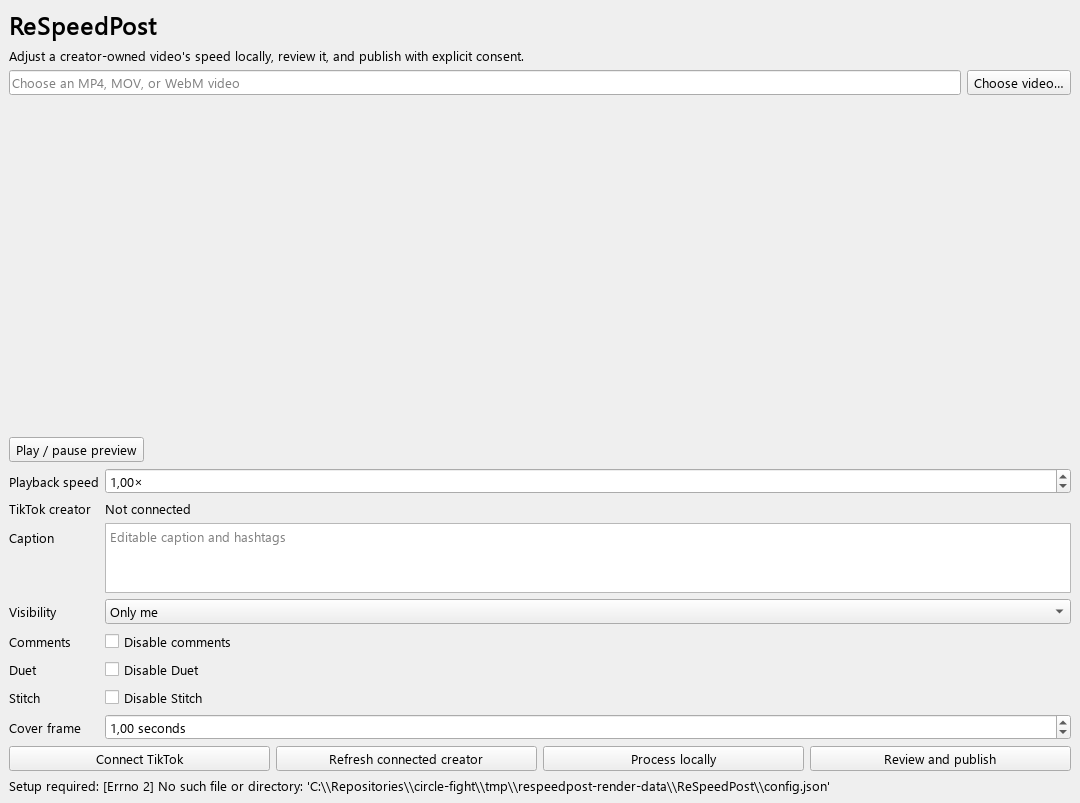
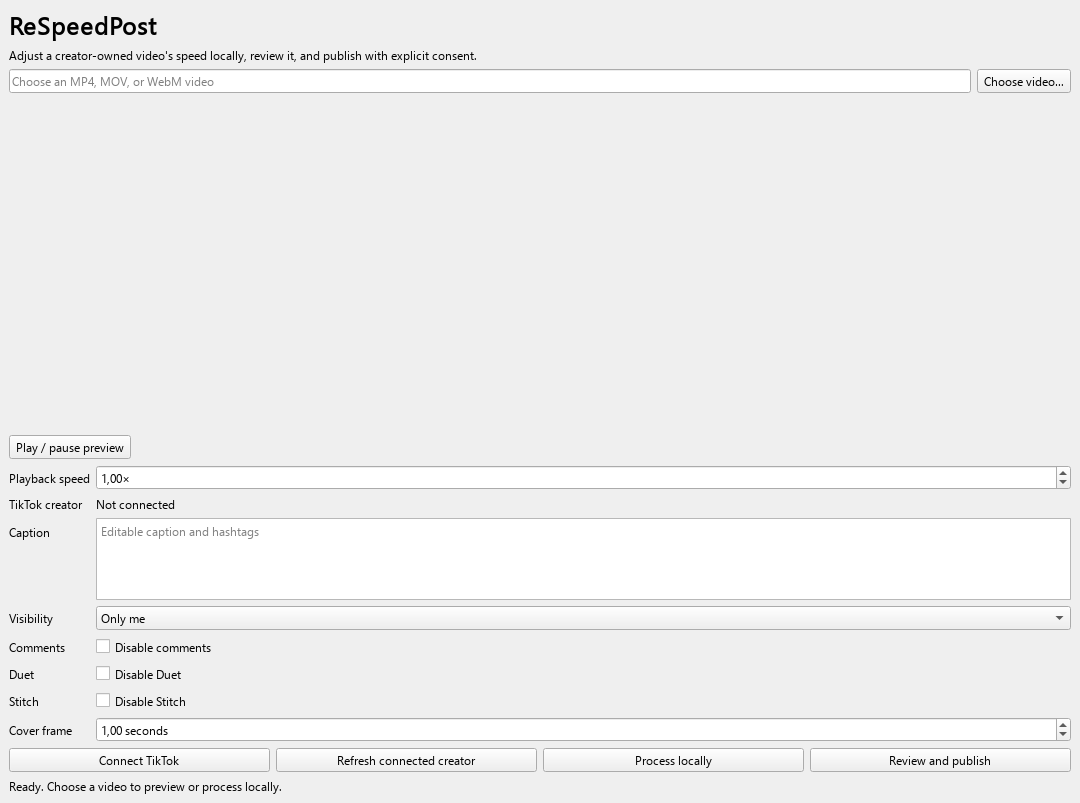
Refine public product messaging and screenshot

diff --git a/index.html b/index.html
@@ -32,7 +32,7 @@
         <div class="section-intro"><p class="eyebrow">Product capabilities</p><h2>A focused workflow for creator-owned media</h2><p>Video processing stays on the user's computer. ReSpeedPost sends a file to TikTok only after the connected creator, metadata, and platform-supported choices are visible.</p></div>
         <div class="grid">
           <article class="card"><span class="number">1</span><h3>Local speed adjustment</h3><p>Choose a speed from 0.25× to 4.00×. FFmpeg creates an H.264/AAC MP4 locally while preserving audio pitch timing.</p></article>
-          <article class="card"><span class="number">2</span><h3>True 1.00× passthrough</h3><p>At exactly 1.00×, the source file is used unchanged. ReSpeedPost does not re-encode, rename, or modify its bytes.</p></article>
+          <article class="card"><span class="number">2</span><h3>Flexible speed control</h3><p>Fine-tune playback speed in 0.05× increments to suit the timing and format of each video.</p></article>
           <article class="card"><span class="number">3</span><h3>Preview before transfer</h3><p>Review the selected local video before publishing. The app never begins a TikTok upload merely because a file was selected.</p></article>
           <article class="card"><span class="number">4</span><h3>Current creator choices</h3><p>ReSpeedPost queries TikTok for the connected creator's nickname, privacy levels, interaction restrictions, and maximum duration.</p></article>
           <article class="card"><span class="number">5</span><h3>Editable post details</h3><p>Edit the caption and hashtags, visibility, comments, Duet, Stitch, and cover-frame timestamp before confirmation.</p></article>
@@ -46,7 +46,7 @@
         <div class="section-intro"><p class="eyebrow">How it works</p><h2>Five visible steps, no surprise upload</h2></div>
         <div class="steps">
           <article class="step"><div><h3>Select and preview</h3><p>Choose an MP4, MOV, or WebM file that you own or are authorized to publish, then preview it in the desktop app.</p></div></article>
-          <article class="step"><div><h3>Choose the speed</h3><p>Use 1.00× for an unchanged upload, or create a local re-speeded copy between 0.25× and 4.00×.</p></div></article>
+          <article class="step"><div><h3>Choose the speed</h3><p>Set the playback speed for the selected video and review the choice before processing.</p></div></article>
           <article class="step"><div><h3>Connect TikTok</h3><p>Authorize a TikTok account through Login Kit. ReSpeedPost displays the creator identity returned by TikTok.</p></div></article>
           <article class="step"><div><h3>Review platform settings</h3><p>Refresh the creator's available options, edit the caption and interaction settings, and choose an allowed visibility.</p></div></article>
           <article class="step"><div><h3>Confirm and publish</h3><p>A final summary identifies the creator, file, speed, visibility, and caption. Only an affirmative confirmation starts processing and transfer.</p></div></article>
@@ -59,4 +59,3 @@
   <footer class="site-footer"><div><strong>ReSpeedPost</strong><br>Desktop video preparation and TikTok publishing.</div><nav><a href="docs.html">Documentation</a><a href="support.html">Support</a><a href="privacy.html">Privacy Policy</a><a href="terms.html">Terms of Service</a></nav></footer>
 </body>
 </html>
-

diff --git a/privacy.html b/privacy.html
@@ -3,7 +3,7 @@
 <main class="container"><header class="page-hero"><p class="eyebrow">Effective August 28, 2026</p><h1>Privacy Policy</h1><p class="lede">This policy explains what ReSpeedPost accesses, where processing occurs, what is transmitted, and how users can revoke access or delete local data.</p></header><article class="prose">
 <h2>Product scope</h2><p>ReSpeedPost is a desktop and command-line application that lets users select creator-owned local videos, optionally adjust playback speed, preview and edit publishing choices, and explicitly authorize publication to their TikTok account.</p>
 <h2>Information accessed from TikTok</h2><p>After authorization, ReSpeedPost uses TikTok's APIs to retrieve the connected creator's username, nickname, currently available privacy levels, comment, Duet and Stitch restrictions, and maximum supported video duration. The application uses the <code>user.info.basic</code> and <code>video.publish</code> scopes. It does not request messages, contacts, passwords, advertising profiles, or unrelated account data.</p>
-<h2>Local video processing</h2><p>Selected videos and re-speeded outputs are processed on the user's computer. At 1.00× the source file is used unchanged. At other speeds, FFmpeg creates a new local output. ReSpeedPost does not send video files to its OAuth service.</p>
+<h2>Local video processing</h2><p>Selected videos and re-speeded outputs are processed on the user's computer. ReSpeedPost does not send video files to its OAuth service.</p>
 <h2>Publishing transfer</h2><p>After the user reviews the creator identity, video, caption, visibility, interaction settings, cover frame, and final confirmation, the selected local file is uploaded directly from the user's device to TikTok's Content Posting API. TikTok processes that transfer under its own privacy policy and terms.</p>
 <h2>OAuth service</h2><p>ReSpeedPost uses a small hosted service solely to keep the TikTok client secret out of the distributed desktop application. The service exchanges a short-lived authorization code for TikTok tokens and refreshes tokens when requested. It does not receive video files, captions, publishing settings, or local file paths. Requests and basic operational logs may be processed temporarily by the hosting provider for security and reliability.</p>
 <h2>Information stored locally</h2><p>The desktop application stores configuration and TikTok access and refresh tokens under <code>%APPDATA%\ReSpeedPost</code>. Processed video outputs are stored in the user-selected or configured output directory. ReSpeedPost does not sell data, create advertising profiles, or use account data for unrelated analytics.</p>
@@ -14,4 +14,3 @@
 <h2>Changes</h2><p>Material changes will be published on this page with an updated effective date.</p>
 <h2>Contact</h2><p>Privacy questions can be submitted through the <a href="https://github.com/ratagrande/re-speed-post-app/issues">ReSpeedPost issue tracker</a>. Do not post private account data or credentials publicly.</p>
 </article></main><footer class="site-footer"><div><strong>ReSpeedPost</strong><br>Privacy and data controls.</div><nav><a href="index.html">Product</a><a href="docs.html">Documentation</a><a href="support.html">Support</a><a href="terms.html">Terms of Service</a></nav></footer></body></html>
-

diff --git a/support.html b/support.html
@@ -2,7 +2,7 @@
 <body><header class="site-header"><a class="brand" href="index.html"><img src="assets/respeedpost-icon.svg" alt="ReSpeedPost icon" width="44" height="44"><span>ReSpeedPost</span></a><nav><a href="index.html">Product</a><a href="docs.html">Documentation</a><a aria-current="page" href="support.html">Support</a><a href="privacy.html">Privacy</a><a href="terms.html">Terms</a></nav></header>
 <main class="container"><header class="page-hero"><p class="eyebrow">Support</p><h1>Answers and troubleshooting.</h1><p class="lede">Start with the documentation, then report reproducible problems through the public issue tracker.</p><div class="actions"><a class="button" href="docs.html">Open documentation</a><a class="button secondary" href="https://github.com/ratagrande/re-speed-post-app/issues">Report an issue</a></div></header><article class="prose faq">
 <h2>Frequently asked questions</h2>
-<details open><summary>Does 1.00× modify or re-encode my video?</summary><p>No. At exactly 1.00×, ReSpeedPost uses the selected source file unchanged and does not start FFmpeg.</p></details>
+<details open><summary>Where does video processing happen?</summary><p>Video preparation happens locally on the user's computer. Video files are not sent to the OAuth service.</p></details>
 <details><summary>Where does video processing happen?</summary><p>On your computer. ReSpeedPost does not upload videos to its OAuth service. When you confirm a post, the resulting local file uploads directly from your device to TikTok.</p></details>
 <details><summary>Why are only some privacy options shown?</summary><p>ReSpeedPost displays the privacy options returned by TikTok for the connected creator at that moment. It does not invent or override unavailable settings.</p></details>
 <details><summary>Can I edit the caption before publishing?</summary><p>Yes. Captions and hashtags are editable in both the UI and CLI workflow before final confirmation.</p></details>
@@ -11,4 +11,3 @@
 <h2>Troubleshooting checklist</h2><ul><li>Confirm FFmpeg and FFprobe are installed and available on <code>PATH</code>.</li><li>Confirm the selected file contains a supported video stream.</li><li>Refresh creator information immediately before posting.</li><li>Use only a visibility option returned for the connected creator.</li><li>Check TikTok account restrictions and daily posting limits.</li><li>Do not retry a post repeatedly while TikTok still reports processing.</li></ul>
 <h2>Contact</h2><p>For product questions or reproducible defects, use the <a href="https://github.com/ratagrande/re-speed-post-app/issues">ReSpeedPost issue tracker</a>. Do not include access tokens, OAuth codes, private videos, passwords, or other secrets in reports.</p>
 </article></main><footer class="site-footer"><div><strong>ReSpeedPost</strong><br>Support and troubleshooting.</div><nav><a href="index.html">Product</a><a href="docs.html">Documentation</a><a href="privacy.html">Privacy Policy</a><a href="terms.html">Terms of Service</a></nav></footer></body></html>
-

diff --git a/docs.html b/docs.html
@@ -7,12 +7,11 @@ cd re-speed-post-app
 py -m venv .venv
 .\.venv\Scripts\python -m pip install -e ".[dev]"
 respeedpost-gui</code></pre>
-<h2>Local processing</h2><p>Select a video and choose a speed from 0.25× to 4.00×. Speeds other than 1.00× create a new H.264/AAC MP4 in the output directory. ReSpeedPost never overwrites the source.</p><div class="notice"><strong>1.00× passthrough:</strong> the original path and bytes are used directly. FFmpeg is not started and no output copy is created.</div>
+<h2>Local processing</h2><p>Select a video and choose a speed from 0.25× to 4.00×. ReSpeedPost prepares compatible H.264/AAC media locally and never overwrites the selected source.</p>
 <h2>Connect a TikTok account</h2><ol><li>Open ReSpeedPost and select <strong>Connect TikTok</strong>.</li><li>Review TikTok's authorization screen in the browser.</li><li>Approve only the displayed scopes.</li><li>Return to ReSpeedPost and refresh the connected creator.</li></ol><p>The app requests <code>user.info.basic</code> to show the destination creator and <code>video.publish</code> to publish an explicitly confirmed post.</p>
 <h2>Publish from the desktop interface</h2><ol><li>Preview the selected video.</li><li>Choose speed and cover-frame time.</li><li>Refresh creator settings.</li><li>Edit the caption, visibility, comments, Duet, and Stitch choices.</li><li>Select <strong>Review and publish</strong>.</li><li>Verify the final creator, file, speed, visibility, and caption, then confirm.</li></ol>
-<h2>Command line</h2><h3>Process only</h3><pre><code>respeedpost process clip.mp4 --speed 1.25 --output output</code></pre><h3>Publish with unchanged media</h3><pre><code>respeedpost publish clip.mp4 --speed 1.00 \
+<h2>Command line</h2><h3>Process only</h3><pre><code>respeedpost process clip.mp4 --speed 1.25 --output output</code></pre><h3>Process and publish</h3><pre><code>respeedpost publish clip.mp4 --speed 1.15 \
   --caption "Creator-approved caption" \
   --privacy SELF_ONLY --confirm</code></pre><p>The CLI retrieves current creator choices before publishing. Without <code>--confirm</code>, it prints a complete summary and requires the user to type <code>YES</code>.</p>
 <h2>Files stored locally</h2><p>Configuration, TikTok tokens, and processed outputs are stored under <code>%APPDATA%\ReSpeedPost</code>. See the <a href="privacy.html">Privacy Policy</a> for retention and deletion instructions.</p>
 </article></main><footer class="site-footer"><div><strong>ReSpeedPost</strong><br>Documentation for version 0.1.</div><nav><a href="index.html">Product</a><a href="support.html">Support</a><a href="privacy.html">Privacy Policy</a><a href="terms.html">Terms of Service</a></nav></footer></body></html>
-
